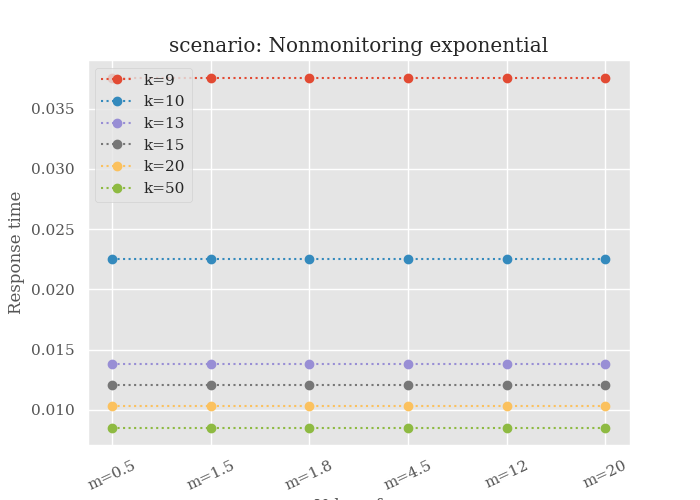
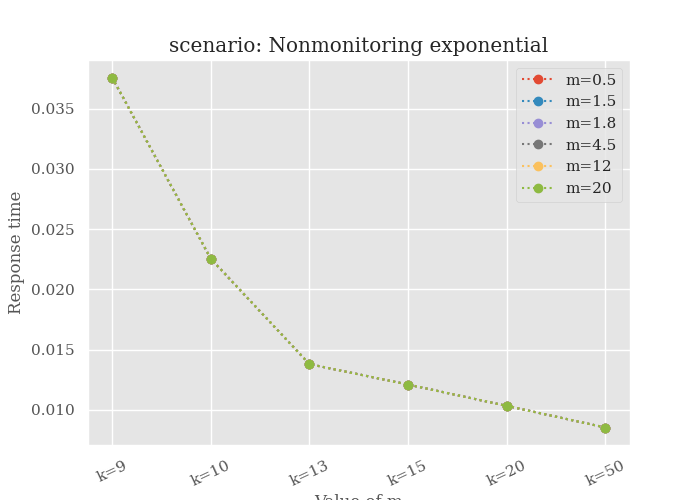
cambiato m con k

diff --git a/analisiDati.py b/analisiDati.py
@@ -1270,30 +1270,30 @@ def plot_everything_scenario():
     meanResponseTime = []
     index = []
 
-    for m in monitoring_time:
-        index.append("m=" + str(m))
+    for i in interarrival_time:
+        index.append("k=" + str(i))
 
     dataframe = pd.DataFrame()
     dataframe['file'] = index
 
     for mode in modes:
-        for i in interarrival_time:
+        for m in monitoring_time:
 
             meanResponseTime.clear()
 
-            for m in monitoring_time:
+            for i in interarrival_time:
                 if mode == 'Nonmonitoring-exponential-' or mode == 'Nonmonitoring-lognormal-':
                     filename = './csv/' + mode + str(i) + '.csv'
                 else:
                     filename = './csv/' + mode + str(i) + "," + str(m) + '.csv'
                 with open(filename, 'r') as f:
                     df = scalar_df_parse(filename)
-                    df = df[df.name == 'responseTime']
+                    df = df[df.name == 'queueLength']
                     del df['run']
                     meanResponseTime.append(df.value.mean())
 
-            dataframe[f'k={i}'] = meanResponseTime
-            plt.plot(dataframe[f'k={i}'],":o",label=f"k={i}")
+            dataframe[f'm={m}'] = meanResponseTime
+            plt.plot(dataframe[f'm={m}'],":o",label=f"m={m}")
 
         plt.xticks([k for k in range(len(index))], [k for k in index])
         var = mode.split('-')[0]
@@ -1301,9 +1301,9 @@ def plot_everything_scenario():
         plt.title("scenario: " + var + " " + var2 )
         plt.xticks(rotation=25)
         plt.xlabel("Value of m")
-        plt.ylabel("Response time")
-        plt.legend(loc='upper left')
-        plt.savefig(f"./analysis/immagini per clarissa/responseTime/separatiPerScenario/{var}{var2}.png")
+        plt.ylabel("Queue length")
+        plt.legend(loc='upper right')
+        plt.savefig(f"./analysis/immagini per clarissa/queueLength/separatiPerScenario/{var}{var2}.png")
         plt.show()
 
 
